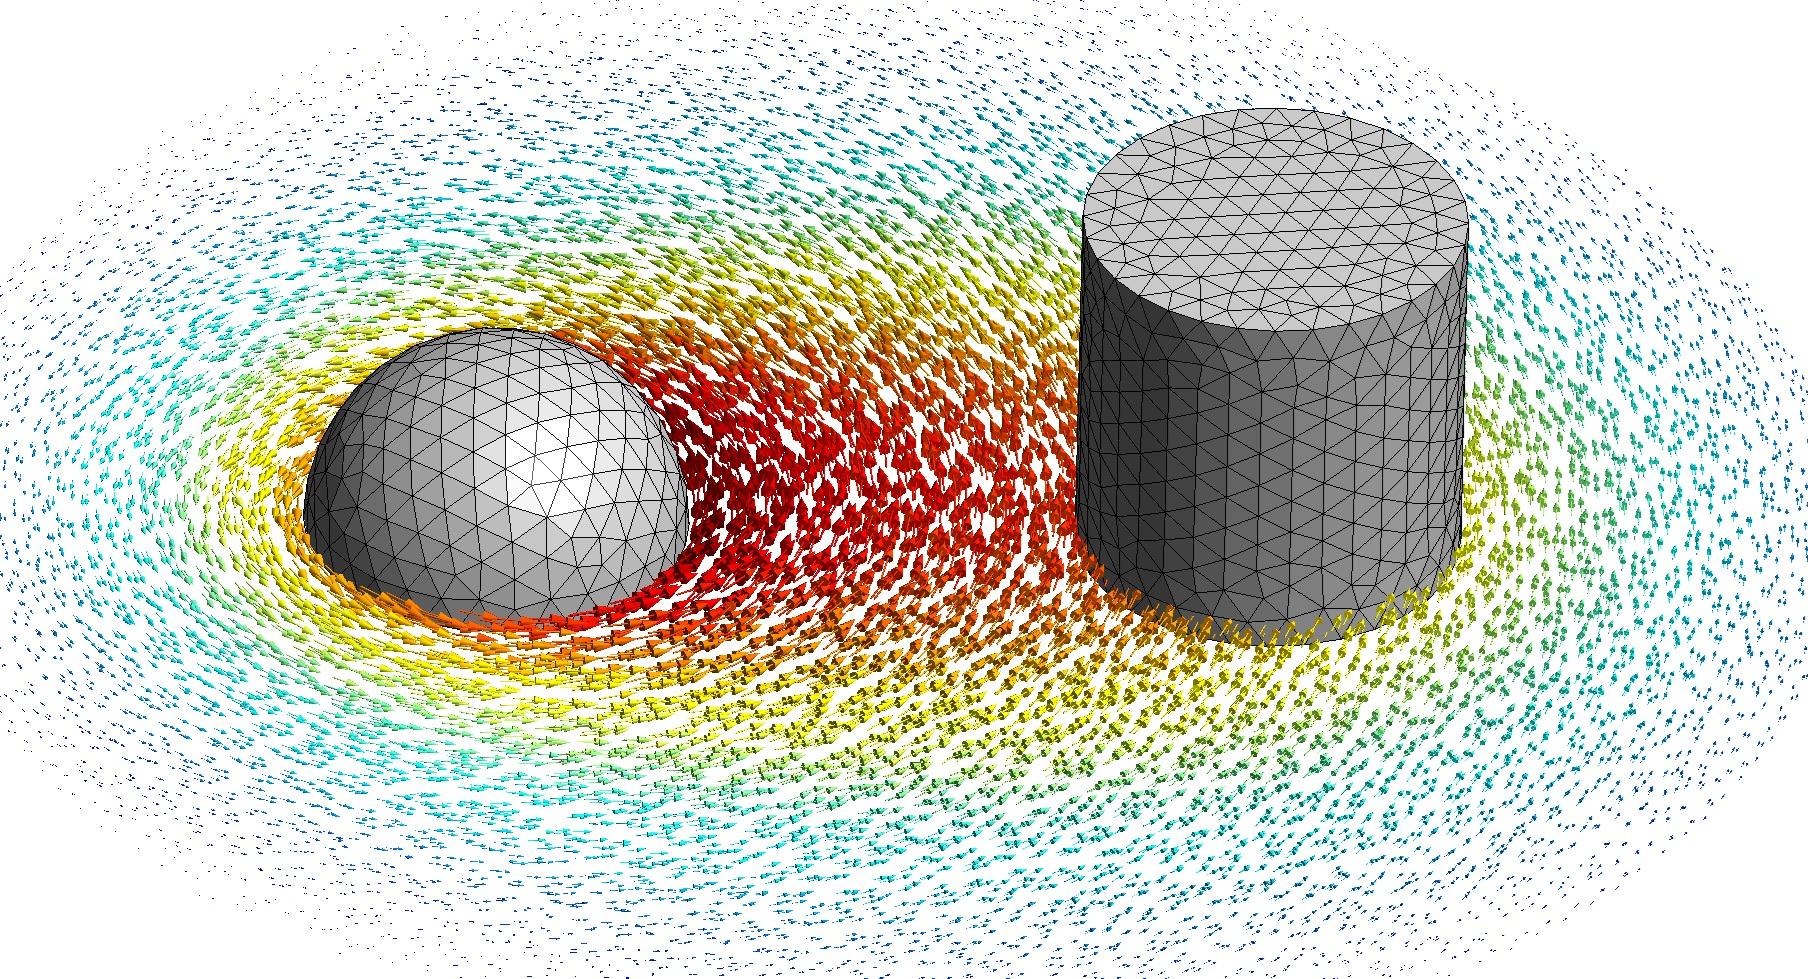
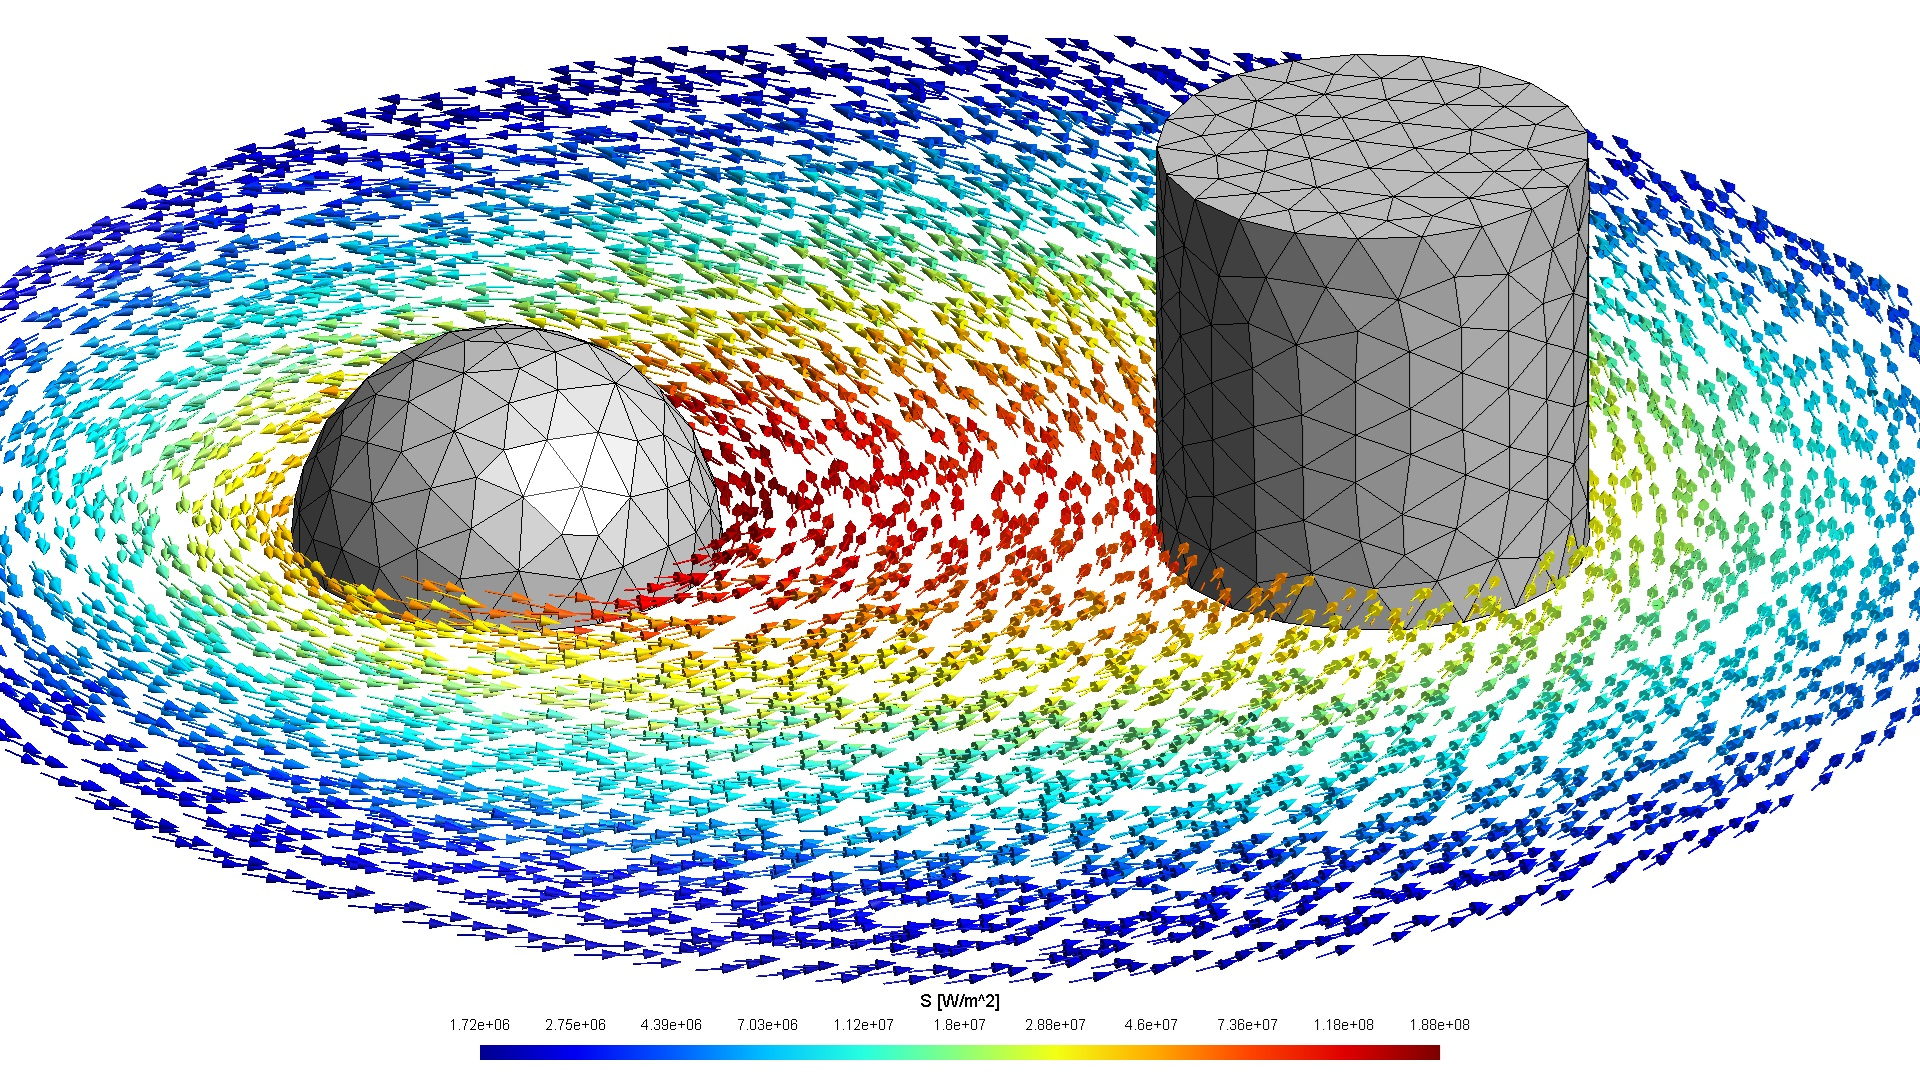
SB: update readme and momentum pic

diff --git a/SphereBench/README.md b/SphereBench/README.md
@@ -1,6 +1,6 @@
 # Energy And Momentum
 
-This folder contains [ONELAB](https://onelab.info/) simulation code for benchmarking open boundary electrostatic and magnetostatic simulations. The main quantities that are calculated are the energy and the electromagnetic momentum contained in the fields.
+This folder contains [ONELAB](https://onelab.info/) simulation code for benchmarking open boundary electrostatic and magnetostatic simulations. The main quantities that are calculated are the energy (one or two spheres), force and torque (two spheres), and the electromagnetic momentum (one sphere).
 
 To run the simulations, open `main.pro` in Gmsh, select the problem type, and press the Run button. Other parameters are set directly in the simulation files, namely in `sphere_common.pro` and `main.pro`.
 
